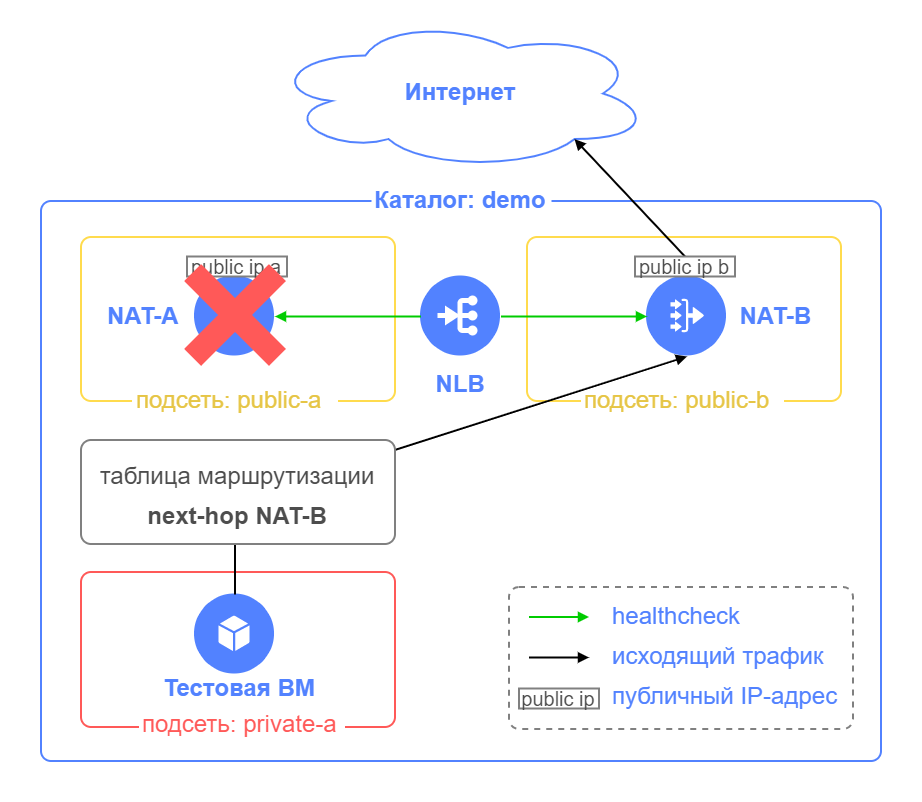
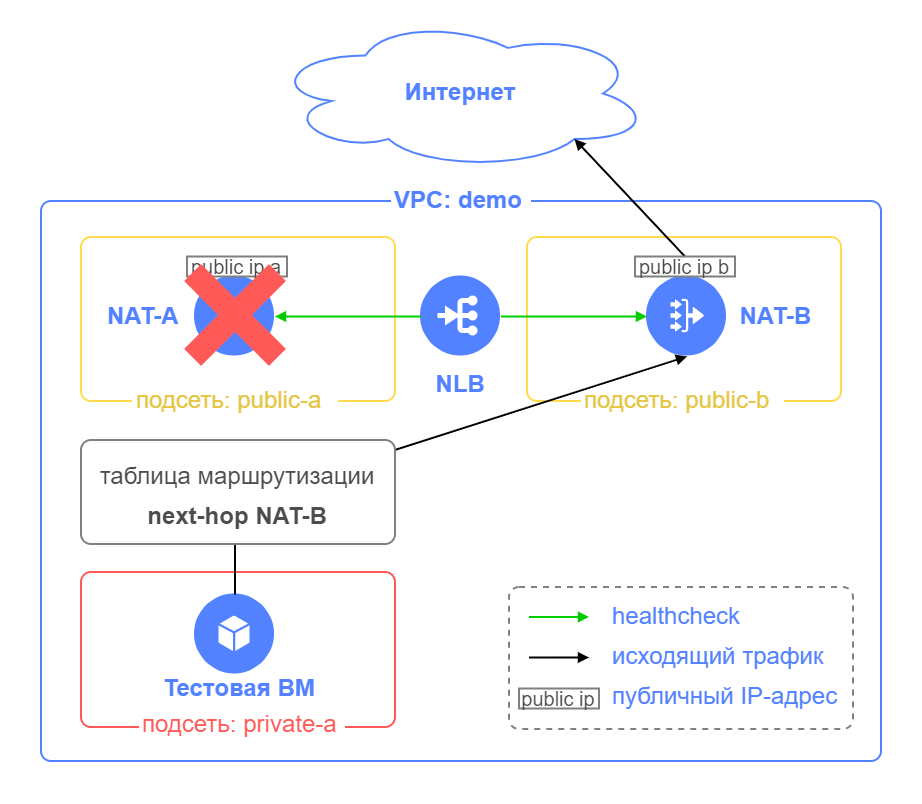
Updated README.md

diff --git a/yc-route-switcher-v2/examples/README.md b/yc-route-switcher-v2/examples/README.md
@@ -29,7 +29,7 @@
 
 | Название элемента | Описание |
 | ----------- | ----------- |
-| Каталог: demo | Каталог для размещения ресурсов |
+| VPC: demo | Облачная сеть для размещения ресурсов |
 | NAT-A, NAT-B | NAT-инстансы, обеспечивающие доступ облачных ресурсов в интернет с помощью трансляции внутренних IP-адресов ресурсов в публичные IP-адреса NAT-инстансов |
 | private-a | Подсеть в зоне `ru-central1-a` для размещения ресурсов, которым требуется доступ в интернет |
 | public-a, public-b | Подсети в зонах `ru-central1-a` и `ru-central1-b`, в которых располагаются NAT-инстансы |
@@ -44,7 +44,7 @@
 
 2. [Установите Terraform](https://cloud.yandex.ru/docs/tutorials/infrastructure-management/terraform-quickstart#install-terraform)
 
-3. Проверьте наличие учетной записи в облаке с правами `admin` на облако
+3. Проверьте наличие учетной записи с правами `admin` на каталог, в котором планируется развертывание ресурсов
 
 4. [Установите и настройте Yandex Cloud CLI](https://cloud.yandex.ru/docs/cli/quickstart)
 
@@ -93,14 +93,13 @@
     export YC_TOKEN=$(yc iam create-token)
     ```
 
-3. Заполните файл `terraform.tfvars` вашими значениями переменных. Файл содержит примеры значений, но вы можете заменить их своими данными (идентификаторы облака и каталога, название vpc, название и адреса для подсетей, имя пользователя для ВМ). Обязательно замените значения идентификаторов вашего облака `cloud_id`, каталога `folder_id` и список публичных IP-адресов/подсетей `trusted_ip_for_mgmt`, с которых разрешено подключение к NAT-инстансам по SSH. 
+3. Заполните файл `terraform.tfvars` вашими значениями переменных. Файл содержит примеры значений, но вы можете заменить их своими данными (идентификаторы облака и каталога, название vpc, название и адреса для подсетей, имя пользователя для ВМ). Обязательно замените значения идентификаторов вашего каталога `folder_id` и список публичных IP-адресов/подсетей `trusted_ip_for_mgmt`, с которых разрешено подключение к NAT-инстансам по SSH. 
 
     <details>
     <summary>Посмотреть переменные в terraform.tfvars</summary>
 
     | Название | Описание | Пример значения |
     | ----------- | ----------- | ----------- |
-    | `cloud_id` | Идентификатор вашего облака в Yandex Cloud | `"b1g8dn6s3v2eiid9dbci"` |
     | `folder_id` | Идентификатор вашего каталога в Yandex Cloud для размещения ресурсов | `"b1genmlel3ax7ux47jko"` |
     | `vpc_name` | Название создаваемой сети VPC для размещения ресурсов | `"demo"` |
     | `trusted_ip_for_mgmt` | Список публичных IP-адресов/подсетей, с которых разрешено подключение к NAT-инстансам. Используется во входящем правиле группы безопасности для  NAT-инстансов.  | `["A.A.A.A/32", "B.B.B.0/24"]` |
